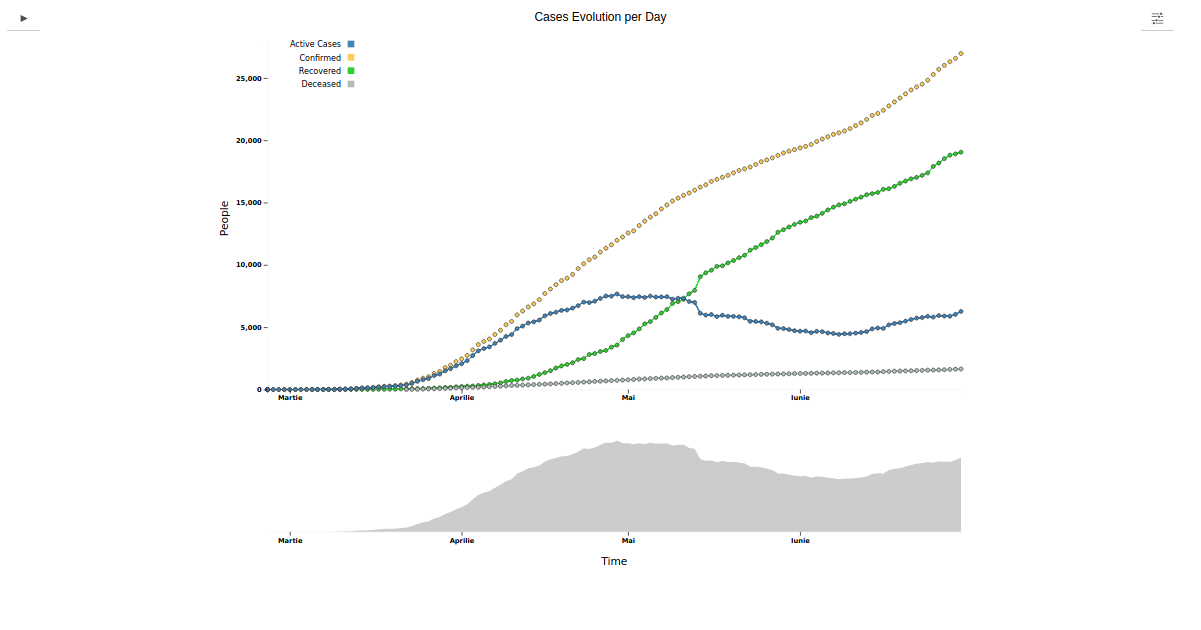
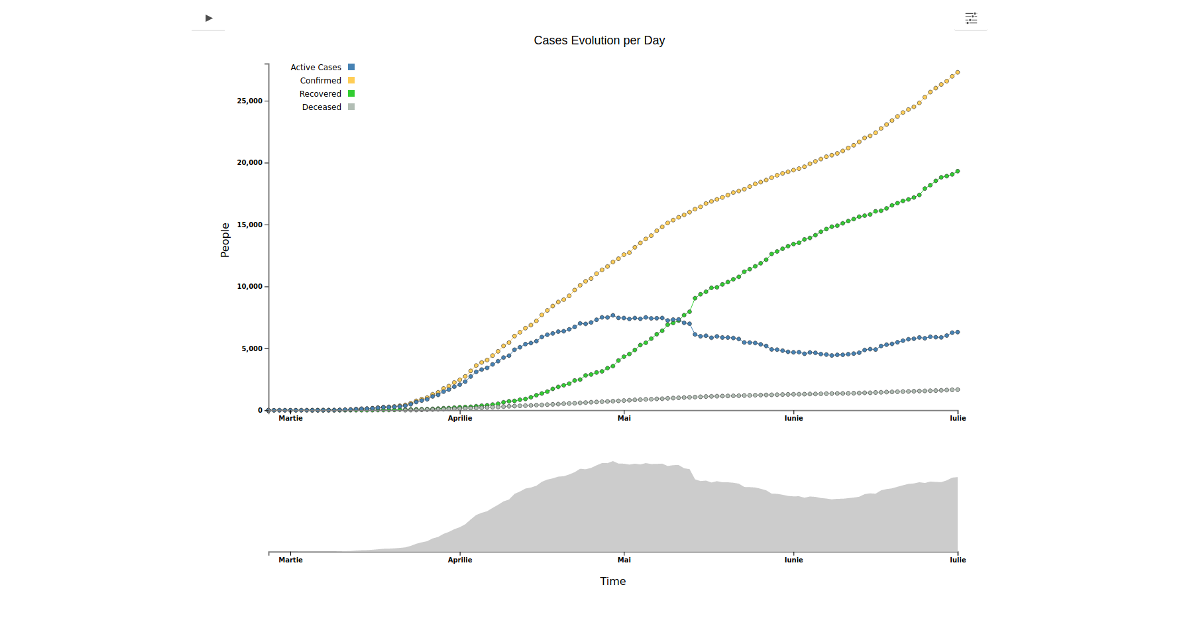
Top margin

diff --git a/css/main.css b/css/main.css
@@ -29,7 +29,7 @@ text {
 }
 
 .wrapper {
-    margin: 0 20;
+    margin-top: 50px;
     max-width: 1200px;
     margin-left: auto;
     margin-right: auto;
